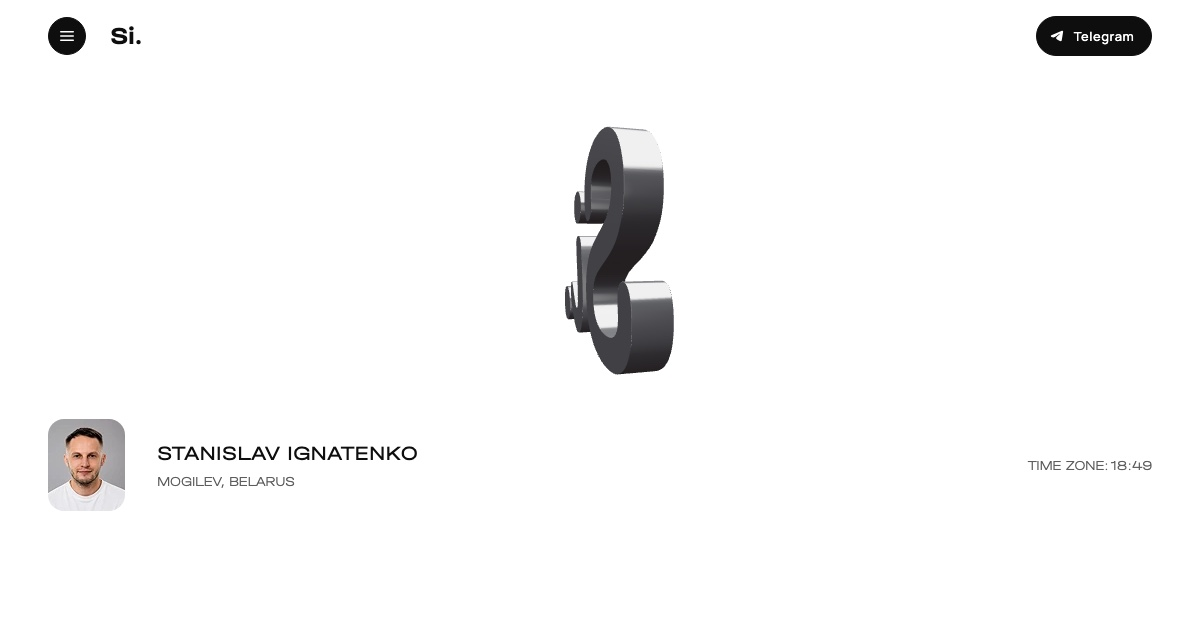
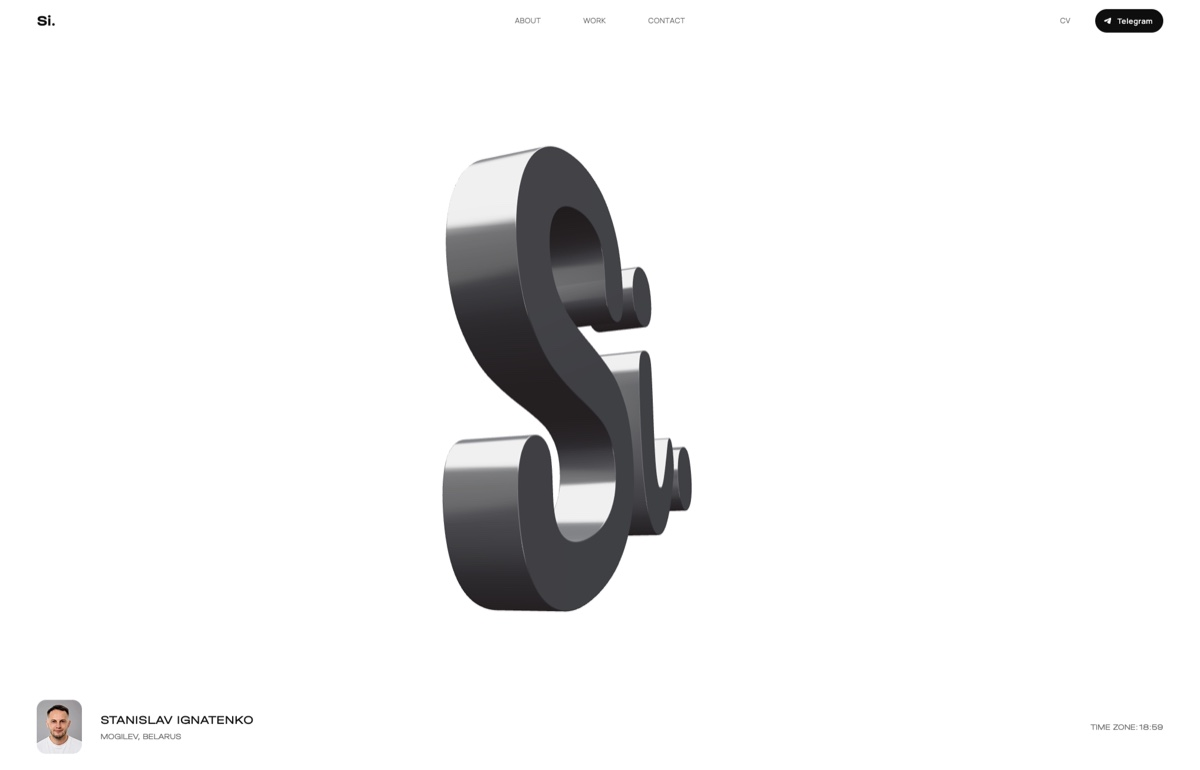
Replace OG preview image with Figma-exported hero screen

diff --git a/index.html b/index.html
@@ -11,7 +11,7 @@
     <meta property="og:description" content="UX/UI дизайнер с 5+ годами опыта в B2B, SaaS и AI-продуктах." />
     <meta property="og:image" content="https://stanislav-ignatenko.vercel.app/og-image.jpg" />
     <meta property="og:image:width" content="1200" />
-    <meta property="og:image:height" content="630" />
+    <meta property="og:image:height" content="770" />
     <meta name="twitter:card" content="summary_large_image" />
     <meta name="twitter:title" content="Stanislav Ignatenko — UX/UI Designer" />
     <meta name="twitter:description" content="UX/UI дизайнер с 5+ годами опыта в B2B, SaaS и AI-продуктах." />
